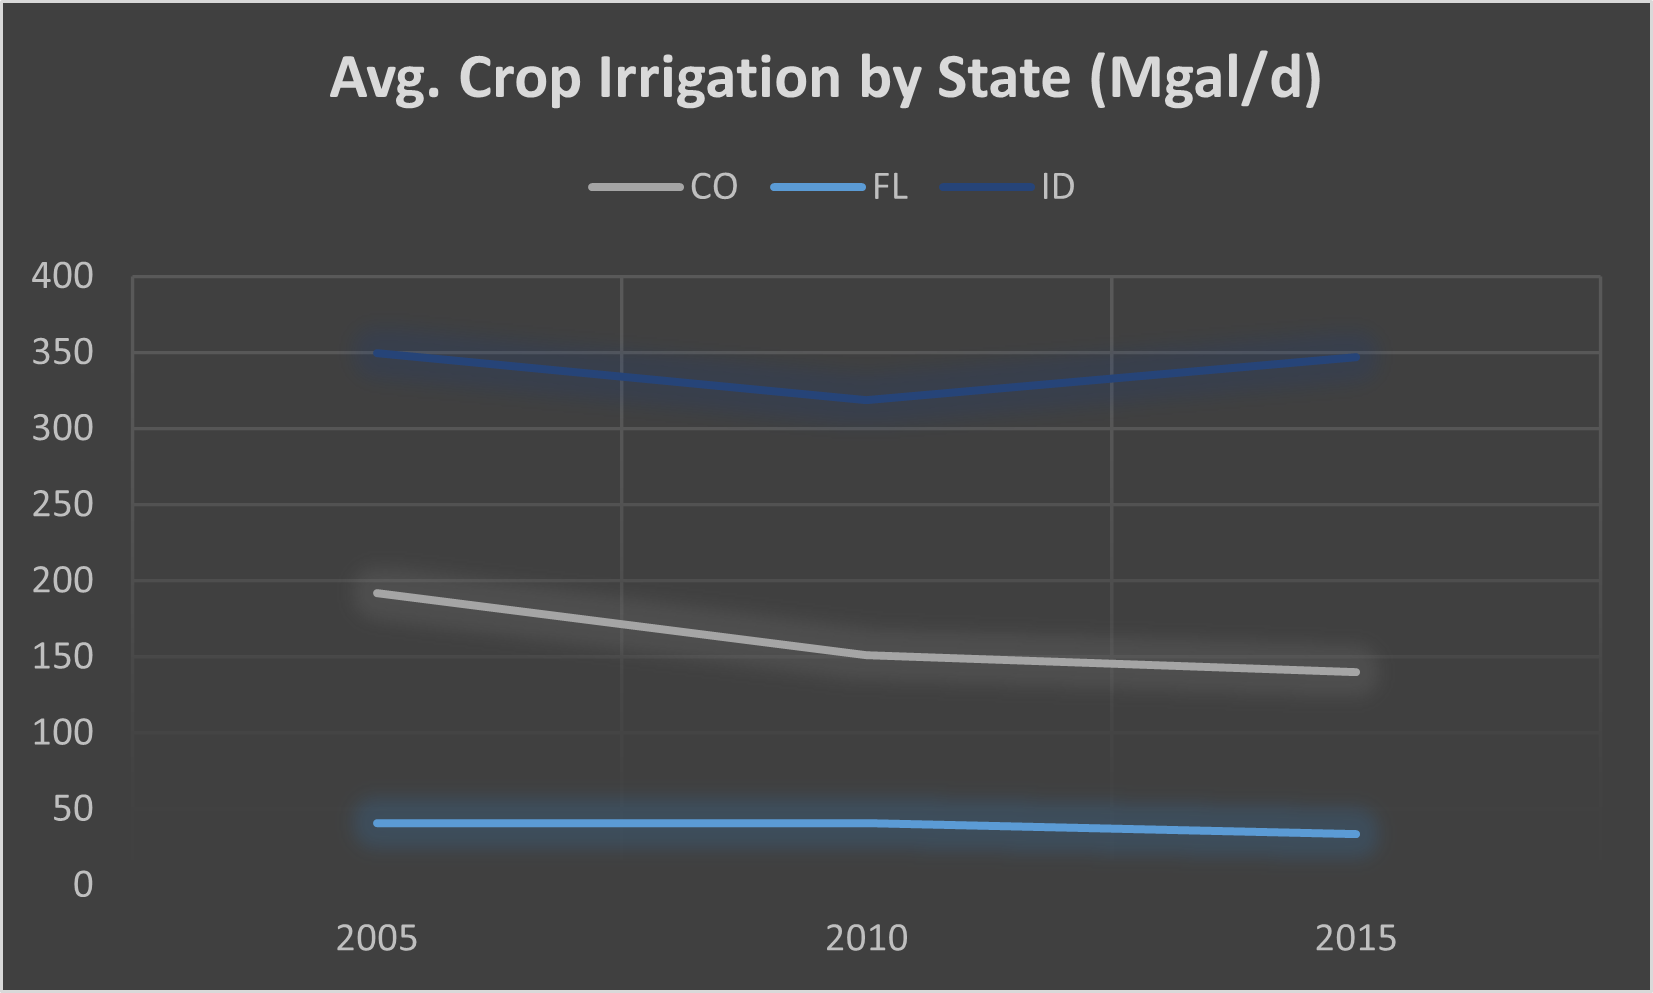
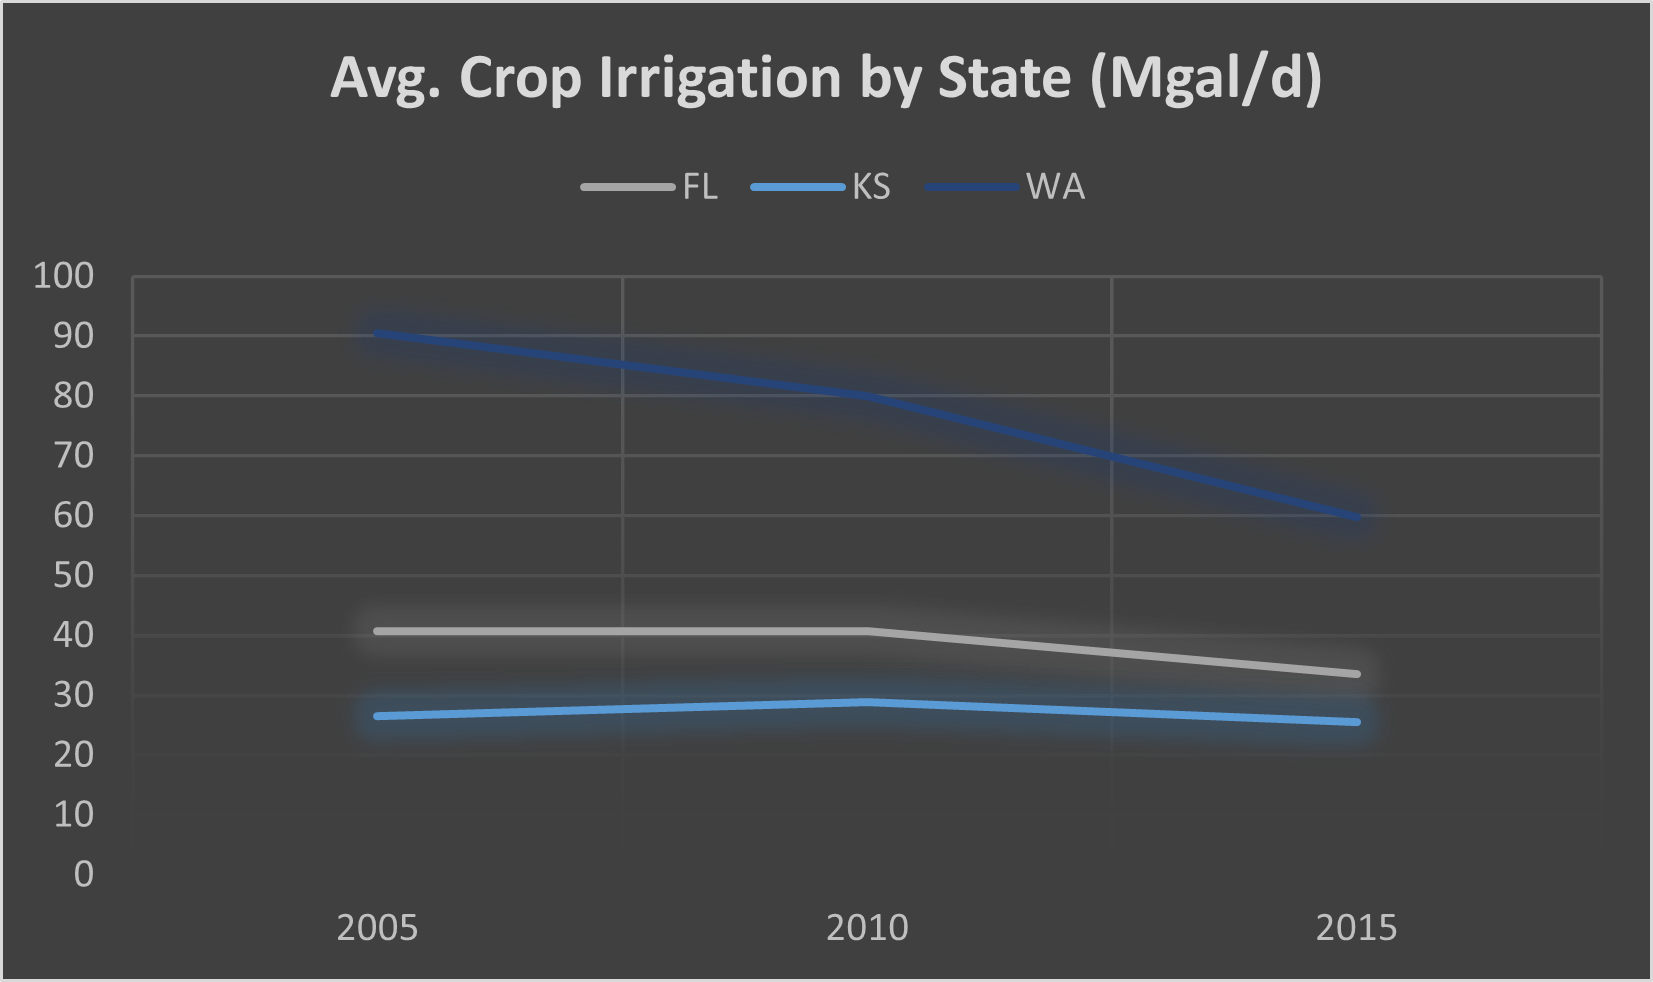
update graph

diff --git a/index.html b/index.html
@@ -44,6 +44,10 @@
             continues to outcompete the replenishment of water stores, water continues to become more scarce and even more valuable. </p>
           <figure class="half" style="display:flex">
             <img src="data/graph.png" alt="Avg. Crop Irrigation" style="width:100%"></figure>
+          <p>The graph (above) depicts the average county's water consumption for irrigation for Washington, Kansas, and Florida. Each state was
+             chosen to represent a different part of the U.S. Washington represents the Pacific North West, Kansas the Midwest, and Florida 
+             the South East.
+          </p>
           </section>
       </aside>
   <div id="ui-controls">
@@ -57,7 +61,7 @@
     <div class="col mx-2">
       <ul class="list-unstyled">
         <li>Ryan Lark</li>
-        <li>6.X.21</li>
+        <li>6.16.21</li>
       </ul>
     </div>
   </footer>
